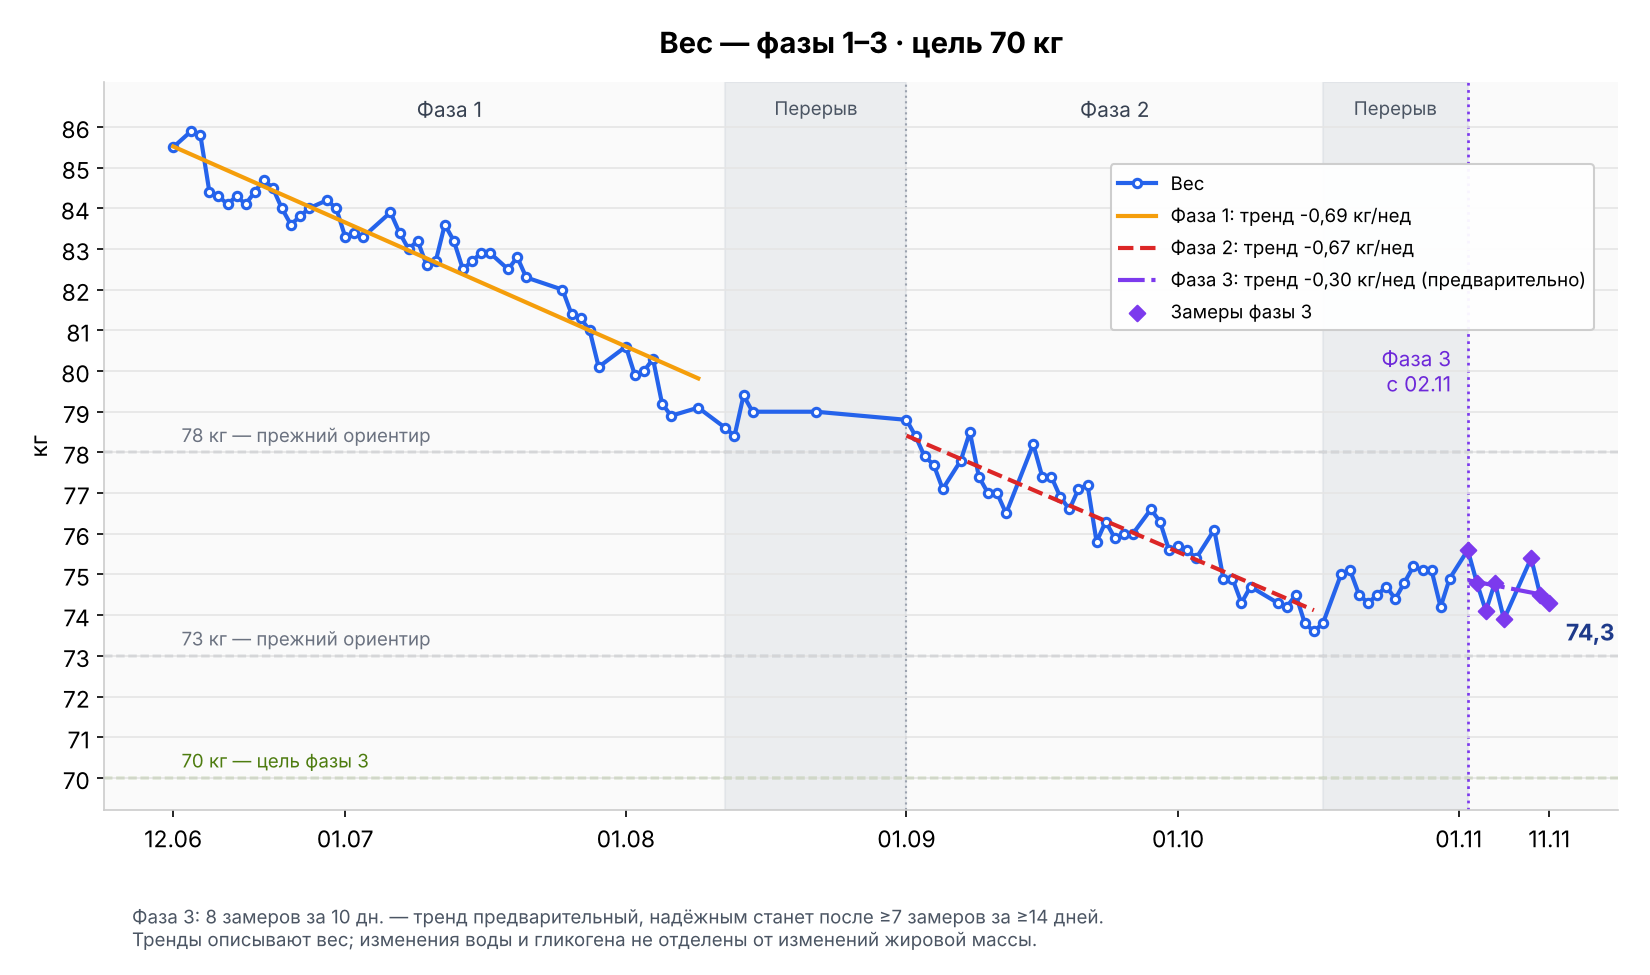
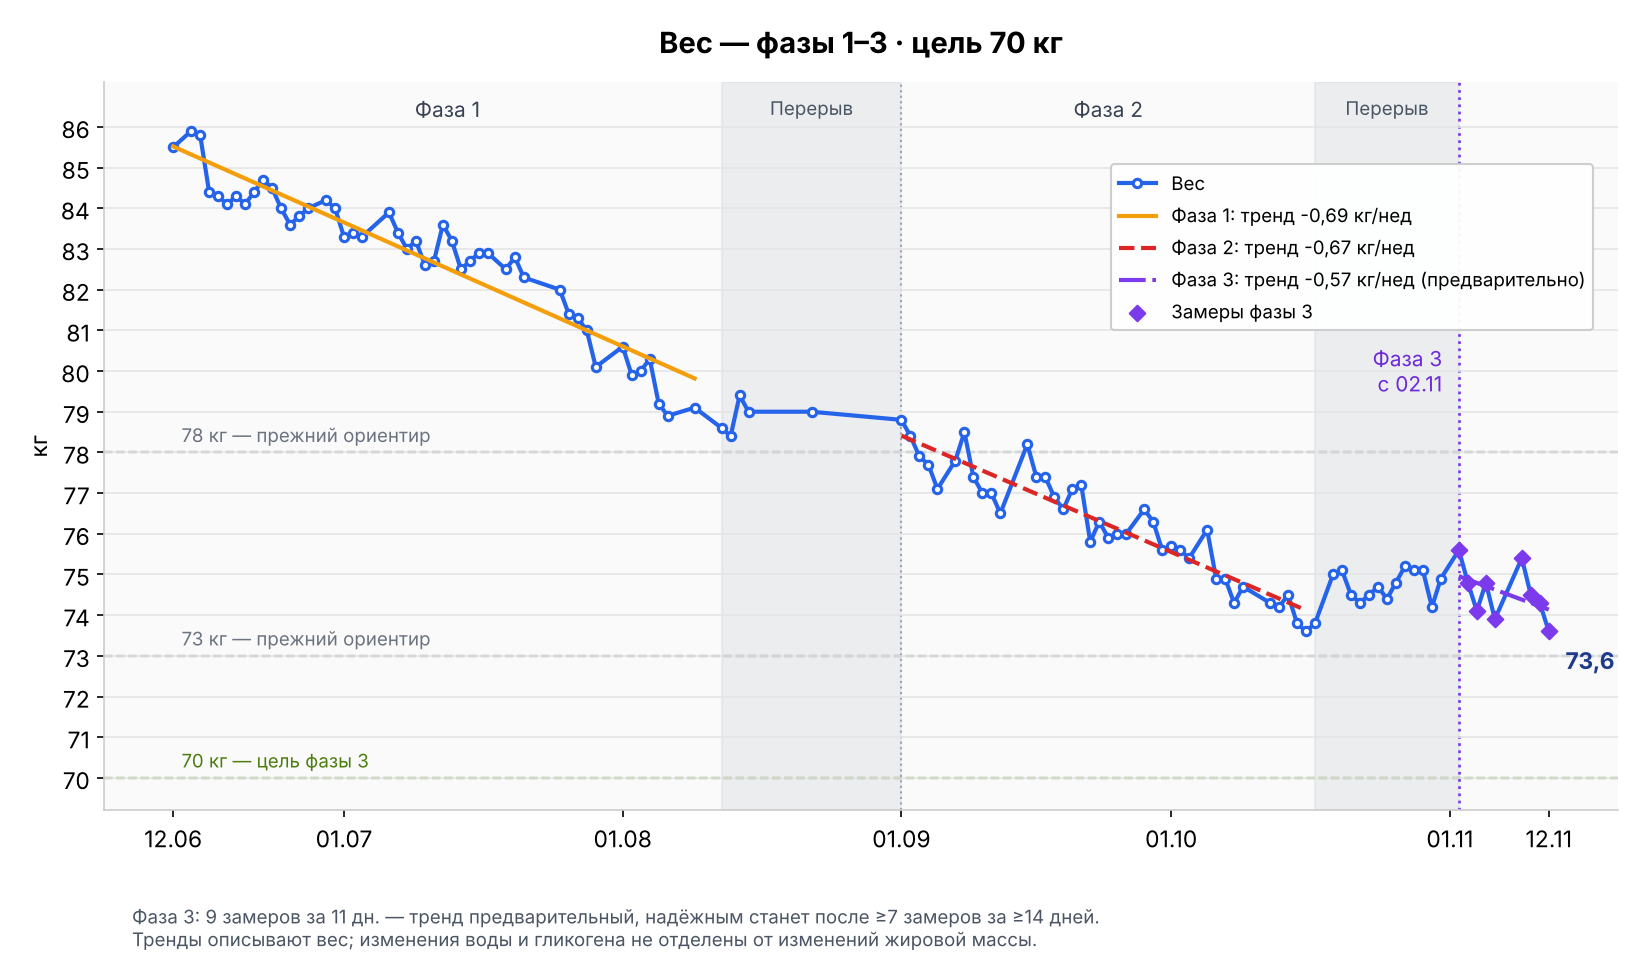
Вес 12.11: 73,6 кг — минимум фазы 3; закрыт день 11.11
Вес −0,7 кг к 11.11. День 11.11 отмечен завершённым (~2449 ккал).
Графики перестроены.

Claude-Session: https://claude.ai/code/session_01BcPogZpufV1jxrQv9Sbikk

diff --git a/health/журнал-еды.md b/health/журнал-еды.md
@@ -11,7 +11,7 @@
 
 | Дата | Кратко | Ккал | Белок |
 |---|---|---|---|
-| 11.11 (ср) | фаза 3, день 10 · цель 1900 ккал · утром 74,3 · завтрак исландский скир черника и малина 150 г + филе куриной грудки 182 г / [АВ] капучино 300 мл / [HSE] гречка 150 г + печень по-строгановски 125 г + щи зелёные 250 г + «Цезарь» 100 г + компот 200 г / [ВиТ] капучино 300 мл / флэт уайт 220 мл на молоке 3,2% / ужин куриная грудка с лимонным перцем 177 г + курица с запечённым чесноком 167 г / ужин 2 мандарины 210 г + яблоки 312 г (день идёт) | ~2449＋ | ~198＋ г |
+| 11.11 (ср) | фаза 3, день 10 · цель 1900 ккал · утром 74,3 · завтрак исландский скир черника и малина 150 г + филе куриной грудки 182 г / [АВ] капучино 300 мл / [HSE] гречка 150 г + печень по-строгановски 125 г + щи зелёные 250 г + «Цезарь» 100 г + компот 200 г / [ВиТ] капучино 300 мл / флэт уайт 220 мл на молоке 3,2% / ужин куриная грудка с лимонным перцем 177 г + курица с запечённым чесноком 167 г / ужин 2 мандарины 210 г + яблоки 312 г · день завершён, +549 ккал к цели | ~2449 | ~198 г |
 | 10.11 (вт) | фаза 3, день 9 · цель 1900 ккал · утром 74,5 · 🏋 зал, спина + трицепс: тяга к поясу 70×7, трицепс в блоке 36 кг 38 повт., узкий жим прерван — боль в правой кисти · завтрак мандарины 219 г + яблоки 389 г + обезжиренный творог 170 г + молоко 1,5% 102 г + варёные яйца 198 г / молоко 1,5% 90 г / обед голубика 125 г + курица с прованскими травами 200 г + безлактозное молоко 1,5% 99 г + мандарины 146 г + яблоки 362 г / ужин помидоры 226 г + жёлтый и красный перец 300 г + лук 86 г + курица с прованскими травами 186 г / хрен «Махеевъ» 20 г + ещё 14 г / безлактозное молоко 1,5% 400 г · день завершён, ~5 ккал до цели | ~1895 | ~167 г |
 | 09.11 (пн) | фаза 3, день 8 · цель 1900 ккал · утром 75,4 (+1,5 после субботнего фастфуда — вода) · завтрак мандарины 142 г + яблоки 294 г + апельсины 176 г + обезжиренный творог 171 г + безлактозное молоко 1,5% 96 г + варёные яйца 242 г / хрен «Махеевъ» 20 г / обед курица с песто 170 г + рассол 179 г + маринованные помидоры 134 г и огурцы 112 г + хрен 40 г / безлактозное молоко 1,5% 104 г / ужин помидоры 400 г + красный перец 127 г + лук 55 г + курица с запечённым чесноком 293 г / хрен «Махеевъ» 25 г / яблоки 418 г · день завершён, ~8 ккал до цели | ~1892 | ~185 г |
 | 08.11 (вс) | фаза 3, день 7 · цель 1900 ккал · медовый десерт 150 ккал, БЖУ неизвестны / курица с прованскими травами 412 г + рассольник с курицей [ВВ] 390 г / мандарины 214 г + яблоки 354 г + апельсины 143 г / молоко 1,5% 280 г / ещё мандарины 232 г / ужин курица с запечённым чесноком 318 г + помидоры, огурцы, красный перец, лук / яблоки 329 г + мандарины 231 г · день завершён, +19 ккал к цели | ~1919＋ | ~183＋ г (без десерта) |
@@ -157,7 +157,7 @@
 
 ## 11 ноября (ср) — фаза 3, день 10 · утром 74,3
 
-День в процессе. **Цель — 1900 ккал** (обычный день). Рабочий ориентир БЖУ: **Б 150 (140–160) / Ж 60 / У 190 г**.
+День завершён. **Цель — 1900 ккал** (обычный день). Рабочий ориентир БЖУ: **Б 150 (140–160) / Ж 60 / У 190 г**.
 
 | Приём | Что | Ккал | Б | Ж | У |
 |---|---|---|---|---|---|
@@ -179,7 +179,7 @@
 | Ужин 2 | мандарины 210 г (38/100г, Б 0,8 / Ж 0,2 / У 7,5; очищенный вес) | ~80 | ~1,7 | ~0,4 | ~15,8 |
 | | яблоки 312 г (~47/100г, Б ~0,4 / Ж ~0,4 / У ~9,8; очищенный вес) | ~147 | ~1,2 | ~1,2 | ~30,6 |
 | | *ужин 2 итого* | *~226* | *~2,9* | *~1,7* | *~46,3* |
-| **Пока за день** | | **~2449** | **~198,2** | **~95,7** | **~195,2** |
+| **Итого** | | **~2449** | **~198,2** | **~95,7** | **~195,2** |
 
 Заметка: исландский скир черника и малина 150 г по КБЖУ пользователя 90,8/9,3/1,2/10,7 на 100 г — 136,200 ккал / Б 13,950 / Ж 1,800 / У 16,050 г. Филе куриной грудки 182 г по КБЖУ пользователя 117,4/22,6/3/0 — 213,668 / 41,132 / 5,460 / 0. Завтрак всего 349,868 ккал / Б 55,082 / Ж 7,260 / У 16,050 г. До цели 1900 ккал осталось 1550,132 ккал; до белка 140–160 г — 84,918–104,918 г; до Ж 60 — 52,740 г; до У 190 — 173,950 г. Капучино из автомата «Азбуки Вкуса» 300 мл: КБЖУ взяты из прежней записи того же напитка от 27.10 (~40 ккал/100 мл, за 300 мл — 120 ккал / Б 6 / Ж 6 / У 9); веб-поиск не выполнялся. Обед в HSE Cafe по фото ценников; масса не сообщалась — приняты порции с ценников и что съедено всё сфотографированное: гречка отварная 150 г — 282,285 ккал / Б 9,075 / Ж 7,365 / У 44,925 г; печень говяжья по-строгановски «75/50 г» принята как 125 г (75 г печени + 50 г соуса), КБЖУ на 100 г блюда; калорийность на ценнике частично закрыта («26?,67»), восстановлена по БЖУ как 261,67 — 327,088 / 23,013 / 20,588 / 12,438; щи зелёные со шпинатом и курицей 250 г — 297,875 / 12,725 / 22,175 / 11,850; салат «Цезарь» с курицей 100 г — 176,470 / 8,480 / 13,110 / 6,140; компот из ягодной смеси 200 г — 98,540 / 0,200 / 0,060 / 24,300. Обед всего 1182,258 ккал / Б 53,493 / Ж 63,298 / У 99,653 г. За день 1652,126 ккал / Б 114,575 / Ж 76,558 / У 124,703 г. До цели 1900 ккал осталось 247,874 ккал; до белка 140–160 г — 25,425–45,425 г; жиры выше ориентира 60 г на 16,558 г; до У 190 — 65,297 г. Добавлен капучино [ВиТ] 300 мл по прежним данным: 113 ккал / Б 5,8 г за порцию, Ж ~6 / У ~9 г — оценка. За день 1765,126 ккал / Б 120,375 / Ж 82,558 / У 133,703 г. До цели 1900 ккал осталось 134,874 ккал; до белка 140–160 г — 19,625–39,625 г; жиры выше ориентира 60 г на 22,558 г; до У 190 — 56,297 г. Добавлен флэт уайт 220 мл на обычном молоке (жирность не указана — принято 3,2%, как в прежних записях): ~170 мл молока по 59,6/2,9/3,2/4,7 на 100 мл — 101,320 ккал / Б 4,930 / Ж 5,440 / У 7,990 г (оценка). За день 1866,446 ккал / Б 125,305 / Ж 87,998 / У 141,693 г. До цели 1900 ккал осталось 33,554 ккал; до белка 140–160 г — 14,695–34,695 г; жиры выше ориентира 60 г на 27,998 г; до У 190 — 48,307 г. Ужин: куриная грудка с лимонным перцем 177 г по КБЖУ пользователя 100/19,5/1,5/3 — 177,000 ккал / Б 34,515 / Ж 2,655 / У 5,310 г; курица с запечённым чесноком 167 г по КБЖУ пользователя от 08.11 107,2/21,2/2/1,1 — 179,024 / 35,404 / 3,340 / 1,837. Ужин всего 356,024 ккал / Б 69,919 / Ж 5,995 / У 7,147 г. За день 2222,470 ккал / Б 195,224 / Ж 93,993 / У 148,840 г. Цель 1900 ккал превышена на 322,470 ккал; белок выше диапазона 140–160 г на 35,224 г; жиры выше ориентира 60 г на 33,993 г; до У 190 — 41,160 г. Ужин 2: очищенные фрукты по прежним справочным значениям — мандарины 210 г (38/0,8/0,2/7,5) — 79,800 ккал / Б 1,680 / Ж 0,420 / У 15,750 г; яблоки 312 г (47/0,4/0,4/9,8) — 146,640 / 1,248 / 1,248 / 30,576; вместе 226,440 ккал / Б 2,928 / Ж 1,668 / У 46,326 г. За день 2448,910 ккал / Б 198,152 / Ж 95,661 / У 195,166 г. Цель 1900 ккал превышена на 548,910 ккал; белок выше диапазона на 38,152 г; жиры выше ориентира на 35,661 г; углеводы выше ориентира 190 г на 5,166 г.
 

diff --git a/health/журнал-веса.md b/health/журнал-веса.md
@@ -149,6 +149,7 @@
 | 9 ноября | 75,4 кг | пн; **фаза 3, день 8**. +1,5 кг к предыдущему замеру 06.11 (07–08.11 взвешиваний не было); −0,2 кг от старта фазы 3 (75,6 кг, 02.11); −10,1 кг от стартовой оценки 85,5 кг. Скачок после субботы с ~2470 ккал (фастфуд: солёное, соусы) и воскресенья с ~0,8 кг фруктов и ~0,5 кг овощей — вода, гликоген и содержимое ЖКТ; жиром быть не может: суббота ниже поддержания ~2700 ккал. Среднее первой недели фазы 3 (02–06.11, 5 замеров) — 74,64 кг |
 | 10 ноября | 74,5 кг | вт; **фаза 3, день 9**. −0,9 кг к предыдущему замеру 09.11 — вода после субботнего фастфуда уходит; −1,1 кг от старта фазы 3 (75,6 кг, 02.11); −11,0 кг от стартовой оценки 85,5 кг |
 | 11 ноября | 74,3 кг | ср; **фаза 3, день 10**. −0,2 кг к предыдущему замеру 10.11; −1,3 кг от старта фазы 3 (75,6 кг, 02.11); −11,2 кг от стартовой оценки 85,5 кг |
+| 12 ноября | 73,6 кг | чт; **фаза 3, день 11**. −0,7 кг к предыдущему замеру 11.11, несмотря на ~2449 ккал накануне; новый минимум фазы 3 (прежний — 73,9 06.11); −2,0 кг от старта фазы 3 (75,6 кг, 02.11); −11,9 кг от стартовой оценки 85,5 кг |
 | 7 ноября | — | сб; **фаза 3, день 6**. Пользователь забыл взвеситься; замер пропущен |
 
 ### График
